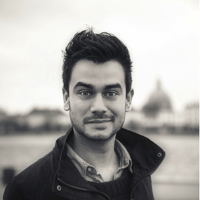
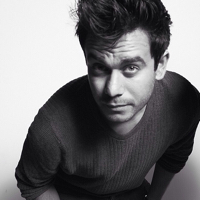
Adding new Portrait

diff --git a/projects/studify.html b/projects/studify.html
@@ -1,0 +1,74 @@
+<!DOCTYPE html>
+<html>
+    <head>
+        <!-- Basic Page Needs -->
+        <meta charset="utf-8">
+        <meta http-equiv="X-UA-Compatible" content="IE=edge,chrome=1">
+        <meta name="viewport" content="initial-scale=1,maximum-scale=1,user-scalable=no">
+        <title>Bikers vs. Police</title>
+        <meta name="description" content="Hi! I'm Daud Balling and this is my website.">
+
+        <!-- CSS -->
+        <link rel="stylesheet" href="/css/normalize.css">
+        <link rel="stylesheet" href="/css/main.css">
+        <!--[if lt IE 9]>
+          <script src="/js/html5shiv.js"></script>
+        <![endif]-->
+
+        <!-- Google Fonts -->
+        <link rel="stylesheet" type="text/css" href="/assets/fonts/fonts.css">
+        <!-- Google Analytics -->
+        <script>
+          (function(i,s,o,g,r,a,m){i['GoogleAnalyticsObject']=r;i[r]=i[r]||function(){
+          (i[r].q=i[r].q||[]).push(arguments)},i[r].l=1*new Date();a=s.createElement(o),
+          m=s.getElementsByTagName(o)[0];a.async=1;a.src=g;m.parentNode.insertBefore(a,m)
+          })(window,document,'script','//www.google-analytics.com/analytics.js','ga');
+
+            ga(‘set’, ‘&uid’, {{USER_ID}}); // Set the user ID using signed-in user_id.
+            ga('create', 'UA-51611268-1', 'daudballing.me');
+            ga('send', 'pageview');
+        </script>
+    </head>
+<body>
+  <div class="container">
+    <div class="row clearfix">
+      <div class="column">
+        <div class="intro">
+      		<h1>Studyfi</h1>
+      		<p><i>Overview of most open-to-public reading and study places in Copenhagen.</i></p>
+          <h3>A project made by <a href="http://daudballing.me">Daud Balling</a></h3>
+      	</div>
+      </div>
+<!--  Map Commented Out     
+      <div class="column">
+    		<iframe width='100%' height='500px' frameBorder='0' src='https://a.tiles.mapbox.com/v3/daudballing.ij68nnjg/attribution,zoompan,zoomwheel,geocoder,share.html'></iframe>
+      </div>
+-->
+      <div class="row clearfix">
+        <div class="column half">
+          <h4>ABOUT THE PROJECT</h4>
+          <p>The mapping of observed bike raids is a practical example of working with Google Maps (EDIT: now using <a href="https://www.mapbox.com/">Mapbox</a>) and data collected from an open group for biking enthusiasts on Facebook.</p>
+          <p>The idea was simply to gather all posts from the Facebook group within the last few months, March, April and May 2014, and pin the different post to the actual locations where the observations were made.</p>
+        </div>
+        <div class="column half">
+          <h4>TOOLS USED FOR THE PROJECT</h4>
+          <p>As for the map, I created a custom map with <a href="https://www.google.com/maps/">Google Maps</a> and made three different layers for each of the months of which the data was collected.</p>
+          <p>I collected data from the this <a href="https://www.facebook.com/groups/234419406651567/">Facebook Group - "Cykelrazzia"</a>. I copied the content from each post into my custom map, and pinned it to each described location.</p>
+          <p>EDIT: I've changed the map from <a href="https://www.google.com/maps/">Google Maps</a> to <a href="https://www.mapbox.com/">Mapbox</a></p>
+        </div>
+      </div>
+      <div class="row clearfix">
+        <div class="column half">
+          <h4>OBJECTIVE</h4>
+          <p>The objective is to provide the reader with a quick overview of the most common places of bike raids. At the same time, it enables the reader to find and examine the areas of town where the law enforcements seem to appear less frequently</p>
+        </div>
+        <div class="column half">
+          <h4>A FEW OBSERVATIONS</h4>
+          <p>Nørrebrogade, looks like taking top prize in observations, whereas similar streets like, Vesterbrogade and Østerbrogade has a significantly less amount of observations in the same period.</p>
+          <p>Dronning Louises Bro is particularly exposed with seven occurrences.</p>
+          <p>Areas as Frederiksberg, Østerbro and Amager seem less exposed.</p>
+        </div>
+      </div>
+
+    </div>
+</body>

diff --git a/css/main.css b/css/main.css
@@ -287,7 +287,7 @@ nav li a:hover {
   border-radius: 90px;
   -webkit-border-radius: 90px;
   -moz-border-radius: 90px;
-  background: url(/assets/images/portrait.jpg) no-repeat;
+  background: url(/assets/images/portrait3.jpg) no-repeat;
   background-size: 180px 180px;
 }
 

diff --git a/projects/index.html b/projects/index.html
@@ -13,6 +13,9 @@ projects: true
 			<li>
 				<h2><a href="{{ site.url }}/projects/bikers-vs-police.html">Bikers vs. Police</a></h2>
 			</li>
+			<li>
+				<h2><a href="{{ site.url }}/projects/studify.html">Studyfi</a></h2>
+			</li>
 		</ul>
 	</div>
 </div>
